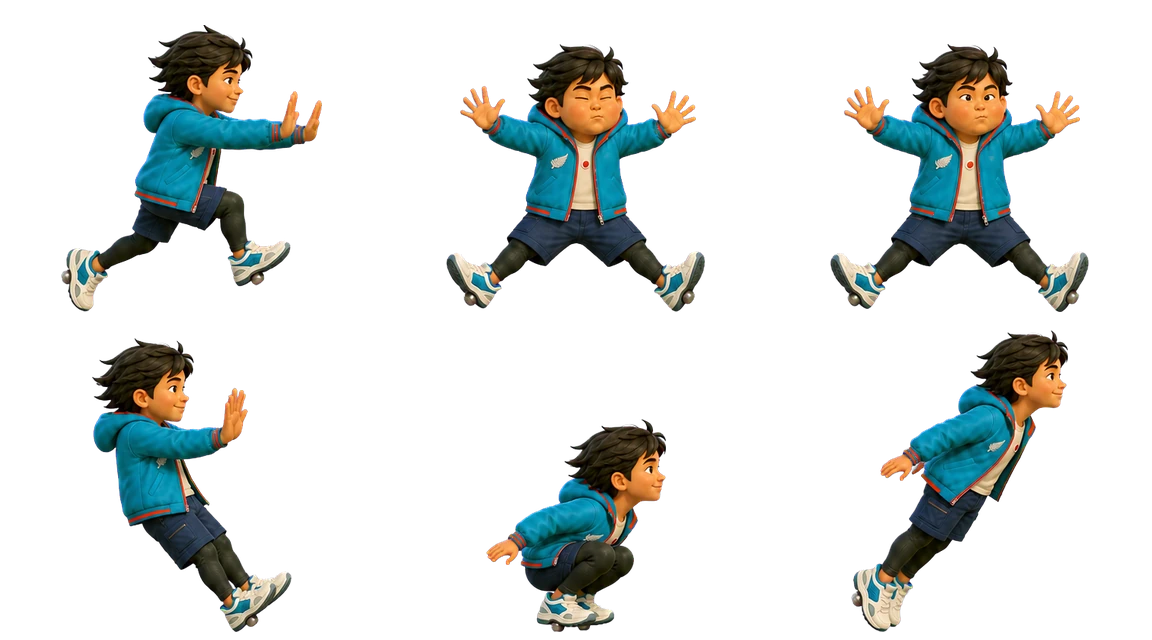
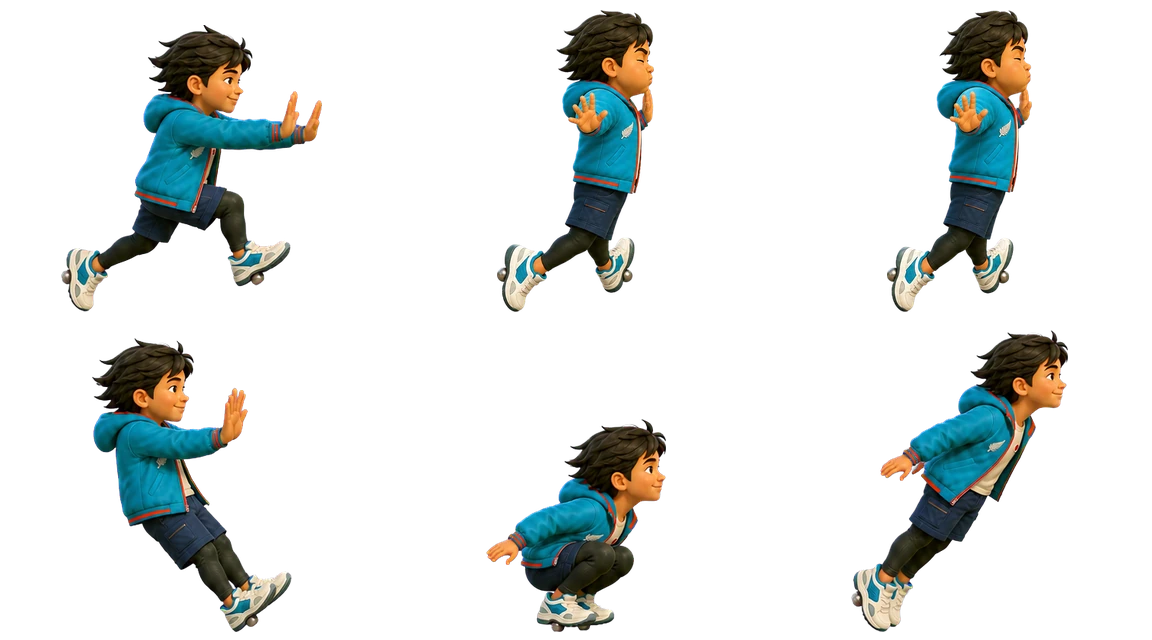
fix: refine character animation framing

Changed region(s): [[0.7188, 0.0, 0.9688, 0.5], [0.375, 0.0, 0.625, 0.5]]

diff --git a/src/game/FlightGame.ts b/src/game/FlightGame.ts
@@ -1,6 +1,3 @@
-import auroraRingUrl from '../assets/game/planets/aurora-ring.svg?no-inline';
-import emberMoonUrl from '../assets/game/planets/ember-moon.svg?no-inline';
-import iceGiantUrl from '../assets/game/planets/ice-giant.svg?no-inline';
 import hugoDoubleJumpCycleUrl from '../assets/game/hugo-double-jump-cycle.webp';
 import hugoGlideCycleUrl from '../assets/game/hugo-glide-cycle.webp';
 import hugoJumpLandCycleUrl from '../assets/game/hugo-jump-land-cycle.webp';
@@ -12,6 +9,7 @@ import {
   DOUBLE_JUMP_DURATION,
   WALL_RECOVERY_DURATION,
   getDoubleJumpFrame,
+  getDoubleJumpFrameLayout,
   getFlightLoopFrame,
   getJetFlameAnchors,
   getLandingFrame,
@@ -70,6 +68,9 @@ export const JET_FLAME_COLORS = {
   glow: 'rgba(207, 39, 17, .56)',
 } as const;
 
+const RUN_DRAW_HEIGHT = 76;
+const AIRBORNE_DRAW_HEIGHT = 84;
+
 export class FlightGame {
   private state = createFlightGame();
   private animationFrame = 0;
@@ -86,9 +87,6 @@ export class FlightGame {
   private readonly wallRecoveryCycleSprite = this.createSprite();
   private readonly runCycleSprite = this.createSprite();
   private readonly trailGroundSprite = this.createSprite();
-  private readonly auroraRingSprite = this.createSprite();
-  private readonly emberMoonSprite = this.createSprite();
-  private readonly iceGiantSprite = this.createSprite();
   private hudDistance = -1;
   private hudCoins = -1;
   private hudBest = -1;
@@ -259,7 +257,6 @@ export class FlightGame {
     const season = getSeasonVisual(this.state.elapsed);
     context.clearRect(0, 0, GAME_WIDTH, GAME_HEIGHT);
     this.drawSky(context);
-    this.drawPlanets(context);
     this.drawGround(context);
     this.drawSeasonAtmosphere(context, season);
     this.drawCoins(context);
@@ -276,36 +273,6 @@ export class FlightGame {
     }
     context.fillStyle = this.skyGradient;
     context.fillRect(0, 0, GAME_WIDTH, GROUND_Y);
-  }
-
-  private drawPlanets(context: CanvasRenderingContext2D): void {
-    const scenes = [
-      { sprite: this.auroraRingSprite, start: 18, end: 190, size: 330, x: 292, y: 218, rate: 0.018 },
-      { sprite: this.emberMoonSprite, start: 170, end: 390, size: 280, x: 82, y: 286, rate: -0.013 },
-      { sprite: this.iceGiantSprite, start: 360, end: 650, size: 350, x: 286, y: 190, rate: 0.010 },
-    ] as const;
-    const distance = this.state.distance;
-
-    for (const scene of scenes) {
-      if (!scene.sprite.ready || distance < scene.start || distance > scene.end) continue;
-      const fadeIn = clamp01((distance - scene.start) / 30);
-      const fadeOut = clamp01((scene.end - distance) / 42);
-      const opacity = Math.min(fadeIn, fadeOut) * 0.34;
-      const parallaxX = scene.x - (distance - scene.start) * 0.31;
-
-      context.save();
-      context.globalAlpha = opacity;
-      context.translate(parallaxX, scene.y);
-      context.rotate(this.state.elapsed * scene.rate);
-      context.drawImage(
-        scene.sprite,
-        -scene.size / 2,
-        -scene.size / 2,
-        scene.size,
-        scene.size,
-      );
-      context.restore();
-    }
   }
 
   private drawSeasonAtmosphere(context: CanvasRenderingContext2D, season: SeasonVisual): void {
@@ -497,8 +464,9 @@ export class FlightGame {
 
     if (hugo.grounded && hugo.groundedTime >= TRANSITION_DURATION && this.runCycleSprite.ready) {
       const runFrame = getRunFrame(this.state.elapsed);
-      const drawHeight = 90;
+      const drawHeight = RUN_DRAW_HEIGHT;
       const drawWidth = drawHeight * (RUN_FRAME_WIDTH / RUN_FRAME_HEIGHT);
+      const drawX = hugo.x + HUGO_WIDTH / 2 - drawWidth / 2;
       context.save();
       context.drawImage(
         this.runCycleSprite,
@@ -506,7 +474,7 @@ export class FlightGame {
         runFrame.sourceY,
         RUN_FRAME_WIDTH,
         RUN_FRAME_HEIGHT,
-        hugo.x - 38,
+        drawX,
         hugo.y + HUGO_HEIGHT - drawHeight + runFrame.verticalOffset,
         drawWidth,
         drawHeight,
@@ -517,10 +485,16 @@ export class FlightGame {
 
     const animatedPose = this.getAnimatedFlightPose();
     if (animatedPose) {
-      const drawHeight = 100;
-      const drawWidth = drawHeight * (RUN_FRAME_WIDTH / RUN_FRAME_HEIGHT);
-      const drawX = hugo.x - 44;
-      const drawY = hugo.y + HUGO_HEIGHT - drawHeight;
+      const baseDrawWidth = AIRBORNE_DRAW_HEIGHT * (RUN_FRAME_WIDTH / RUN_FRAME_HEIGHT);
+      const baseDrawX = hugo.x + HUGO_WIDTH / 2 - baseDrawWidth / 2;
+      const baseDrawY = hugo.y + HUGO_HEIGHT - AIRBORNE_DRAW_HEIGHT;
+      const frameLayout = animatedPose.kind === 'doubleJump'
+        ? getDoubleJumpFrameLayout(animatedPose.frame.index)
+        : { scale: 1, verticalOffset: 0 };
+      const drawHeight = AIRBORNE_DRAW_HEIGHT * frameLayout.scale;
+      const drawWidth = baseDrawWidth * frameLayout.scale;
+      const drawX = baseDrawX + (baseDrawWidth - drawWidth) / 2;
+      const drawY = baseDrawY + AIRBORNE_DRAW_HEIGHT * frameLayout.verticalOffset;
 
       if (
         !hugo.grounded
@@ -775,9 +749,6 @@ export class FlightGame {
     this.wallRecoveryCycleSprite.src = hugoWallRecoveryCycleUrl;
     this.runCycleSprite.src = hugoRunCycleUrl;
     this.trailGroundSprite.src = trailGroundUrl;
-    this.auroraRingSprite.src = auroraRingUrl;
-    this.emberMoonSprite.src = emberMoonUrl;
-    this.iceGiantSprite.src = iceGiantUrl;
   }
 }
 

diff --git a/src/game/animation.ts b/src/game/animation.ts
@@ -18,6 +18,14 @@ export type FlightPoseKind = 'powered' | 'glide';
 
 const RUN_FRAME_Y_OFFSETS = [0, 2, -1, -7, 0, 2, -1, -7] as const;
 const TAKEOFF_FRAME_INDICES = [2, 3] as const;
+const DOUBLE_JUMP_FRAME_LAYOUTS = [
+  { scale: 0.91, verticalOffset: 0.025 },
+  { scale: 0.86, verticalOffset: 0.063 },
+  { scale: 0.93, verticalOffset: -0.032 },
+  { scale: 0.80, verticalOffset: 0.113 },
+  { scale: 0.83, verticalOffset: 0.097 },
+  { scale: 0.86, verticalOffset: 0.072 },
+] as const;
 const JET_FLAME_ANCHORS = {
   powered: [
     [{ x: 0.229, y: 0.881, angle: 0.58 }, { x: 0.369, y: 0.881, angle: 0.50 }],
@@ -53,6 +61,11 @@ export interface JetFlameAnchor {
   angle: number;
 }
 
+export interface DoubleJumpFrameLayout {
+  scale: number;
+  verticalOffset: number;
+}
+
 export function getRunFrame(elapsedSeconds: number): RunFrame {
   const safeElapsed = Number.isFinite(elapsedSeconds) ? Math.max(0, elapsedSeconds) : 0;
   const index = Math.floor(safeElapsed * RUN_FRAMES_PER_SECOND) % RUN_FRAME_COUNT;
@@ -86,6 +99,14 @@ export function getDoubleJumpFrame(doubleJumpTime: number): AtlasFrame {
     Math.floor(safeElapsed * DOUBLE_JUMP_FRAMES_PER_SECOND),
   );
   return getFlightAtlasFrame(index);
+}
+
+export function getDoubleJumpFrameLayout(frameIndex: number): DoubleJumpFrameLayout {
+  const safeIndex = Math.max(0, Math.min(
+    DOUBLE_JUMP_FRAME_COUNT - 1,
+    Math.floor(Number.isFinite(frameIndex) ? frameIndex : 0),
+  ));
+  return DOUBLE_JUMP_FRAME_LAYOUTS[safeIndex];
 }
 
 export function getWallStuckFrame(stuckTime: number): AtlasFrame {

diff --git a/tests/animation.test.ts b/tests/animation.test.ts
@@ -5,6 +5,7 @@ import {
   LANDING_FRAME_START,
   WALL_RECOVERY_DURATION,
   getDoubleJumpFrame,
+  getDoubleJumpFrameLayout,
   getFlightLoopFrame,
   getJetFlameAnchors,
   getLandingFrame,
@@ -69,6 +70,14 @@ describe('Hugo character animation timing', () => {
     ));
     expect(frames).toEqual([0, 1, 2, 3, 4, 5]);
     expect(getDoubleJumpFrame(DOUBLE_JUMP_DURATION + 1).index).toBe(5);
+  });
+
+  it('normalizes double-jump frame scale and centers each transition', () => {
+    const layouts = Array.from({ length: 6 }, (_, index) => getDoubleJumpFrameLayout(index));
+    expect(new Set(layouts.map(({ scale }) => scale)).size).toBeGreaterThan(3);
+    expect(layouts.every(({ scale }) => scale >= 0.8 && scale <= 0.93)).toBe(true);
+    expect(layouts.some(({ verticalOffset }) => verticalOffset < 0)).toBe(true);
+    expect(layouts.some(({ verticalOffset }) => verticalOffset > 0.09)).toBe(true);
   });
 
   it('holds the splat wobble and then plays all three recovery poses', () => {

diff --git a/tests/e2e/ui-style.spec.ts b/tests/e2e/ui-style.spec.ts
@@ -56,8 +56,7 @@ test('loads the generated character and trail art over a clean blue sky', async 
       && resources.some((name) => name.includes('hugo-glide-cycle'))
       && resources.some((name) => name.includes('hugo-jump-land-cycle'))
       && resources.some((name) => name.includes('hugo-double-jump-cycle'))
-      && resources.some((name) => name.includes('hugo-wall-recovery-cycle'))
-      && resources.some((name) => name.includes('aurora-ring'));
+      && resources.some((name) => name.includes('hugo-wall-recovery-cycle'));
   });
   const skyPixel = await page.locator('#game-canvas').evaluate((canvas) => (
     Array.from((canvas as HTMLCanvasElement).getContext('2d')!.getImageData(10, 10, 1, 1).data)

diff --git a/scripts/process_game_assets.py b/scripts/process_game_assets.py
@@ -20,6 +20,13 @@ CHARACTER_SHEETS = (
     ("hugo-double-jump-sheet-transparent.png", "hugo-double-jump-cycle.webp", 3, 3, 2),
     ("hugo-wall-recovery-sheet-transparent.png", "hugo-wall-recovery-cycle.webp", 3, 3, 2),
 )
+CHARACTER_POSE_REPLACEMENTS = {
+    "hugo-wall-recovery-sheet-transparent.png": (
+        "hugo-wall-splat-side-profile-transparent.png",
+        (1, 2),
+        (360, 395),
+    ),
+}
 
 
 def process_transparent_asset(source_name: str, output_name: str) -> None:
@@ -102,6 +109,17 @@ def extract_character_poses(
     return poses
 
 
+def resize_to_fit(pose: Image.Image, maximum_size: tuple[int, int]) -> Image.Image:
+    maximum_width, maximum_height = maximum_size
+    scale = min(maximum_width / pose.width, maximum_height / pose.height, 1)
+    if scale == 1:
+        return pose
+    return pose.resize(
+        (round(pose.width * scale), round(pose.height * scale)),
+        Image.Resampling.LANCZOS,
+    )
+
+
 def process_character_sheet(
     source_name: str,
     output_name: str,
@@ -115,6 +133,21 @@ def process_character_sheet(
         expected_source_rows,
         source_name,
     )
+    replacement = CHARACTER_POSE_REPLACEMENTS.get(source_name)
+    if replacement is not None:
+        replacement_name, replacement_indices, maximum_size = replacement
+        replacement_poses = extract_character_poses(
+            Image.open(SOURCE_DIRECTORY / replacement_name).convert("RGBA"),
+            1,
+            replacement_name,
+        )
+        if len(replacement_poses) != len(replacement_indices):
+            raise ValueError(
+                f"Expected {len(replacement_indices)} replacement poses in "
+                f"{replacement_name}, found {len(replacement_poses)}"
+            )
+        for pose_index, replacement_pose in zip(replacement_indices, replacement_poses):
+            poses[pose_index] = resize_to_fit(replacement_pose, maximum_size)
     expected_frame_count = atlas_columns * atlas_rows
     if len(poses) != expected_frame_count:
         raise ValueError(

diff --git a/docs/PERFORMANCE.md b/docs/PERFORMANCE.md
@@ -9,10 +9,10 @@ Physics and collision are render-rate independent and use fixed `1/120 s` subste
 - advances at most `0.05 s`;
 - moves a short obstacle/coin list;
 - uses one cached sky gradient;
-- draws the scrolling trail, pickups, red obstacles, one Hugo atlas cell, up to 24 seasonal particles, and at most one giant SVG planet;
+- draws the scrolling trail, pickups, red obstacles, one Hugo atlas cell, and up to 24 seasonal particles;
 - writes HUD text only when a displayed value changes.
 
-The animation loop pauses while the document is hidden. Planet glow is authored inside the SVGs, avoiding per-frame Canvas blur filters or offscreen buffers.
+The animation loop pauses while the document is hidden. Character glow is limited to the active jet effect, avoiding full-scene per-frame filters or offscreen buffers.
 
 ## Production audit
 
@@ -30,10 +30,10 @@ The audit serves the production build, opens a `390 × 844` Chromium viewport at
 
 Latest local result on 24 July 2026:
 
-- average frame interval: approximately `20 ms` (about 50 fps);
-- p95 interval: `33.4 ms`;
+- average frame interval: approximately `16.6 ms` (about 60 fps);
+- p95 interval: `16.8 ms`;
 - backing store: `390 × 780`;
-- decoded resources: approximately `2.21 MB` across 30 requests.
+- decoded resources: approximately `2.19 MB` across 27 requests.
 
 This improved the first DPR-3 audit from a `50 ms` p95 at a `585 × 1170` backing store.
 
@@ -46,9 +46,9 @@ Runtime character atlases are approximately:
 - free glide: 119 KB;
 - jump/landing: 140 KB;
 - double jump: 120 KB;
-- wall impact/recovery: 111 KB.
+- wall impact/recovery: 100 KB.
 
-The trail is 64 KB. The three planets are external SVG files between 1.3 and 1.6 KB each; `?no-inline` keeps their markup out of the JavaScript bundle. Full generation sources under `art/` are excluded from production.
+The trail is 64 KB. Full generation sources under `art/` are excluded from production.
 
 Jet fire remains a few Canvas paths/gradients, so its color and intensity do not require another decoded atlas.
 

diff --git a/docs/ASSET_GENERATION.md b/docs/ASSET_GENERATION.md
@@ -59,14 +59,14 @@ Current runtime sizes are approximately:
 - six-frame unpowered glide/fall atlas: 119 KB;
 - eight-frame jump/landing atlas: 140 KB;
 - six-frame double-jump atlas: 120 KB;
-- six-frame wall-impact/recovery atlas: 111 KB;
+- six-frame wall-impact/recovery atlas: 100 KB;
 - scrolling trail strip: 64 KB.
 
-The old single flight pose, single-pose run WebP, six-frame transition sheet, and full-screen Forest plate are retired from runtime. The game now has 40 authored character frames. Code-rendered flames remain color- and intensity-adjustable without another texture, and individually tuned shoe-port anchors/angles keep both flames aligned across every powered and glide frame.
+The old single flight pose, single-pose run WebP, six-frame transition sheet, and full-screen Forest plate are retired from runtime. The game now has 40 authored character frames. The wall-splat atlas replaces its two camera-facing wobble frames with generated strict side-profile poses. Code-rendered flames remain color- and intensity-adjustable without another texture, and individually tuned shoe-port anchors/angles keep both flames aligned across every powered and glide frame.
 
 ## Generated and procedural scene art
 
-The sky is a code-rendered `#26d9ff` fill. Generated ochre/scorched-red earth, stones, roots, grass, and fern tips come from the transparent trail strip. Three lightweight, code-authored SVG planets appear by distance. Coins, seasonal particles, and red obstacles remain Canvas drawings. This is deliberate:
+The sky is a code-rendered cyan gradient. Generated ochre/scorched-red earth, stones, roots, grass, and fern tips come from the transparent trail strip. Coins, seasonal particles, and red obstacles remain Canvas drawings. This is deliberate:
 
 - collision silhouettes remain tied to the same rectangles the player sees;
 - the wide trail can scroll without an obvious repeated motif inside one viewport;

diff --git a/docs/GAME_SPEC.md b/docs/GAME_SPEC.md
@@ -100,7 +100,7 @@ All atlases play at 12 fps. Jumping uses the clean crouch and airborne silhouett
 
 The two shoe flames are Canvas paths rather than baked pixels. Every powered and glide frame has two independently measured heel-port anchors and down/back angles, so each flame follows its own moving shoe. Their warm gradients, glow, length, opacity, and flicker respond to smoothed thrust intensity. The editable palette is the exported `JET_FLAME_COLORS` object in `src/game/FlightGame.ts`.
 
-The old full-screen Forest image is not loaded. The play corridor uses the `#26d9ff` blue from the HUGO GO! home wordmark as a clean sky, while a generated transparent ochre/scorched-red New Zealand forestry trail scrolls below it. Three external SVG planets fade in by distance with slow Canvas rotation. Obstacles are large red procedural silhouettes with stripe, facet, or panel identities, keeping their art aligned with collision bounds.
+The old full-screen Forest image is not loaded. The play corridor uses a clean cyan sky, while a generated transparent ochre/scorched-red New Zealand forestry trail scrolls below it. Obstacles are large red procedural silhouettes with stripe, facet, or panel identities, keeping their art aligned with collision bounds.
 
 ## Seasonal cycle
 

diff --git a/art/source-images/game/PROMPTS.md b/art/source-images/game/PROMPTS.md
@@ -206,3 +206,9 @@ Preserve the same 10-year-old Hugo, natural non-caricatured facial anatomy, hair
 Layout: strict two-column by three-row grid in reading order, one full-body pose per equal cell, consistent camera/scale, generous gutters, nothing cropped or overlapping. The invisible impact wall must not be drawn. Perfectly flat uniform `#FF00FF` background. No flames, exhaust, smoke, sparks, blood, bruises, injury marks, text, labels, borders, logo, watermark, extra person, duplicate limb, or missing limb.
 
 Generated sources: `hugo-wall-recovery-sheet-magenta.png` and `hugo-wall-recovery-sheet-transparent.png`.
+
+The two camera-facing splat/wobble poses were replaced at processing time by
+`hugo-wall-splat-side-profile-magenta.png` and
+`hugo-wall-splat-side-profile-transparent.png`. Those replacement frames preserve Hugo's
+right-facing side profile, puffed cheek, palm-first contact plane, and harmless flattened
+silhouette without looking toward the camera.

diff --git a/src/assets/README.md b/src/assets/README.md
@@ -14,7 +14,6 @@ game/
   hugo-jump-land-cycle.webp  eight jump/landing frames in a 4×2 atlas
   hugo-double-jump-cycle.webp six double-jump frames in a 3×2 atlas
   hugo-wall-recovery-cycle.webp six wall-impact/recovery frames in a 3×2 atlas
-  planets/                    three lightweight rotating/glowing SVG planets
 ui/
   buttons/      shared interface controls
   frames/       modal framing
@@ -27,4 +26,4 @@ Full generated gameplay sources belong in `art/source-images/game/`, not in the 
 python scripts/process_game_assets.py
 ```
 
-The flat blue sky, seasonal particles, giant planets, generated trail, and red obstacle rendering live in `src/game/FlightGame.ts`; deterministic collision bounds and wall recovery live in `src/game/engine.ts`.
+The flat blue sky, seasonal particles, generated trail, and red obstacle rendering live in `src/game/FlightGame.ts`; deterministic collision bounds and wall recovery live in `src/game/engine.ts`.

diff --git a/docs/ART_BACKLOG.md b/docs/ART_BACKLOG.md
@@ -22,7 +22,6 @@ No character image required for the current Forest controls is missing.
 - Six-frame double-jump sheet: tuck, corkscrew, open, and stabilized flight.
 - Six-frame non-injury wall sheet: approach, splat, wobble, peel, crouch, and upward recovery.
 - Two animated shoe flames drawn in Canvas code, with per-frame shoe-port anchors, an editable scorched-red palette, and thrust-responsive length/glow.
-- Three giant code-authored SVG planets with distance fades, slow rotation, and restrained built-in glow.
 
 The run cycle plays at 12 fps and repeats every `0.667 s`. The two flight loops each repeat every `0.5 s`; the double jump plays at 14 fps and the wall action at 12 fps. Across all six atlases there are **40 authored full-body frames**. More generated in-betweens should be added only when they improve silhouette continuity enough to justify their download/decode cost.
 

diff --git a/docs/DESIGN_AUDIT.md b/docs/DESIGN_AUDIT.md
@@ -13,7 +13,7 @@
 - Shoe jets visibly fire from per-frame shoe anchors during flight.
 - A clean wordmark-blue sky and generated forestry trail replace the full-screen Forest plate.
 - Hugo can land on and run across obstacle tops; frontal impacts use a six-frame wall-splat/recovery sequence and only end the run if he is pushed off-screen.
-- Three giant rotating SVG planets provide low-contrast progression landmarks.
+- The clear sky keeps hazards and character silhouettes easy to read at speed.
 - Four seasons transition without swapping or decoding additional background images.
 - Five unbuilt worlds remain discoverable without looking playable.
 - Distance, coins, XP, best distance, and local top-five runs connect gameplay back to home.
